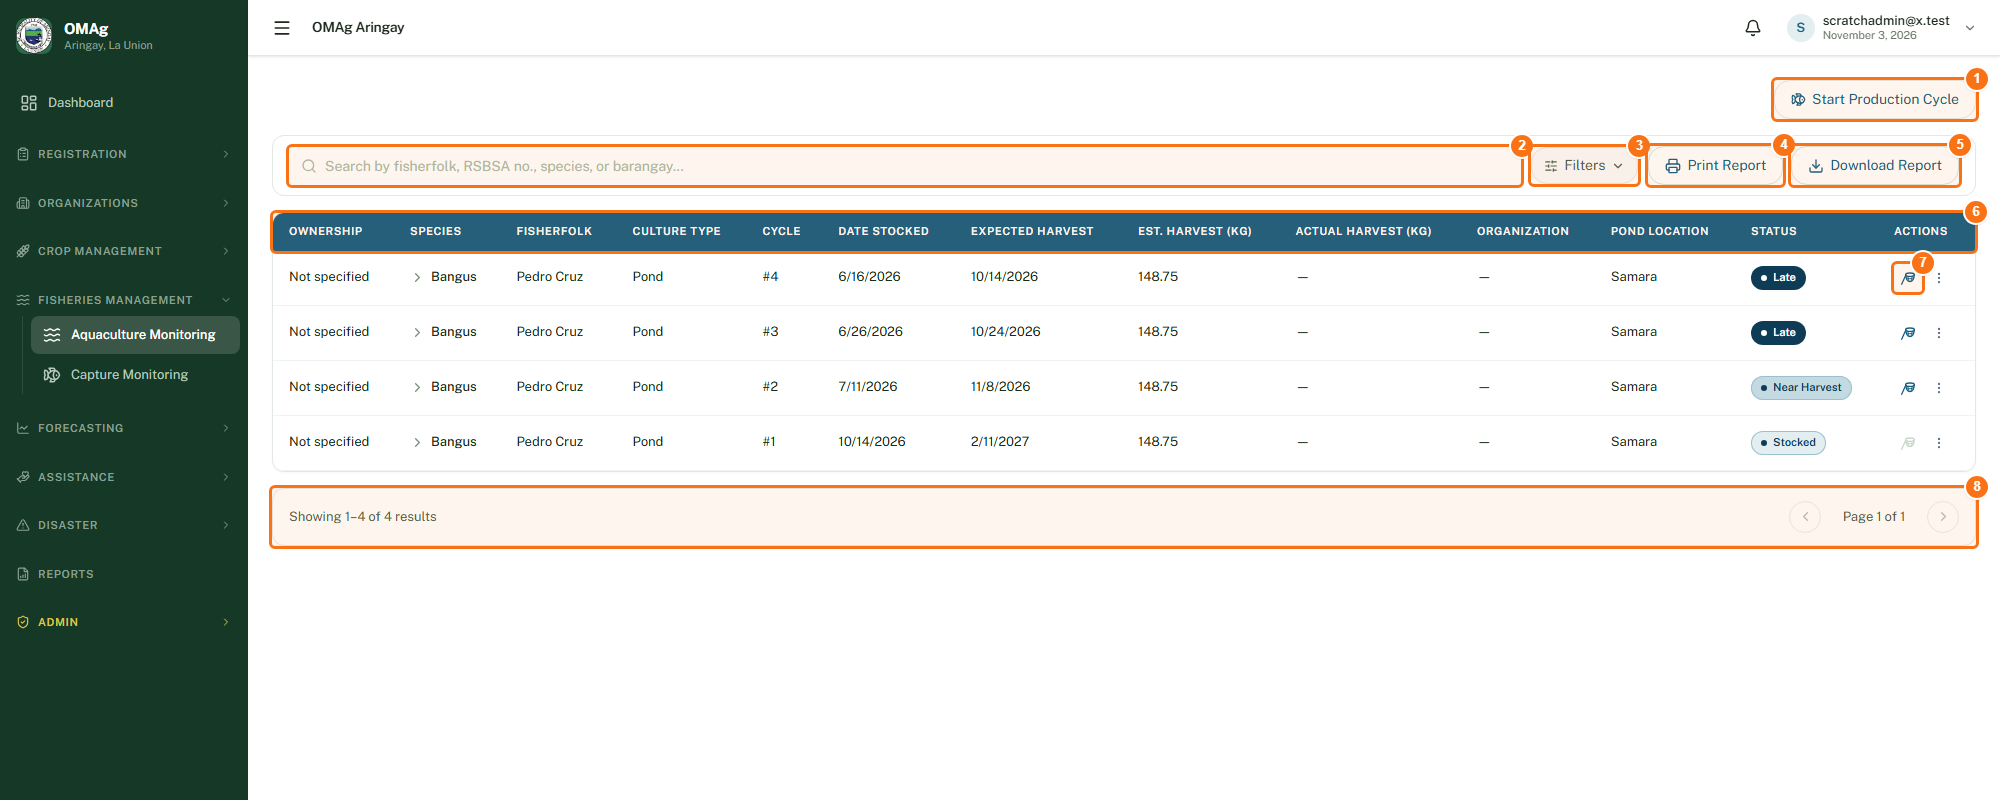
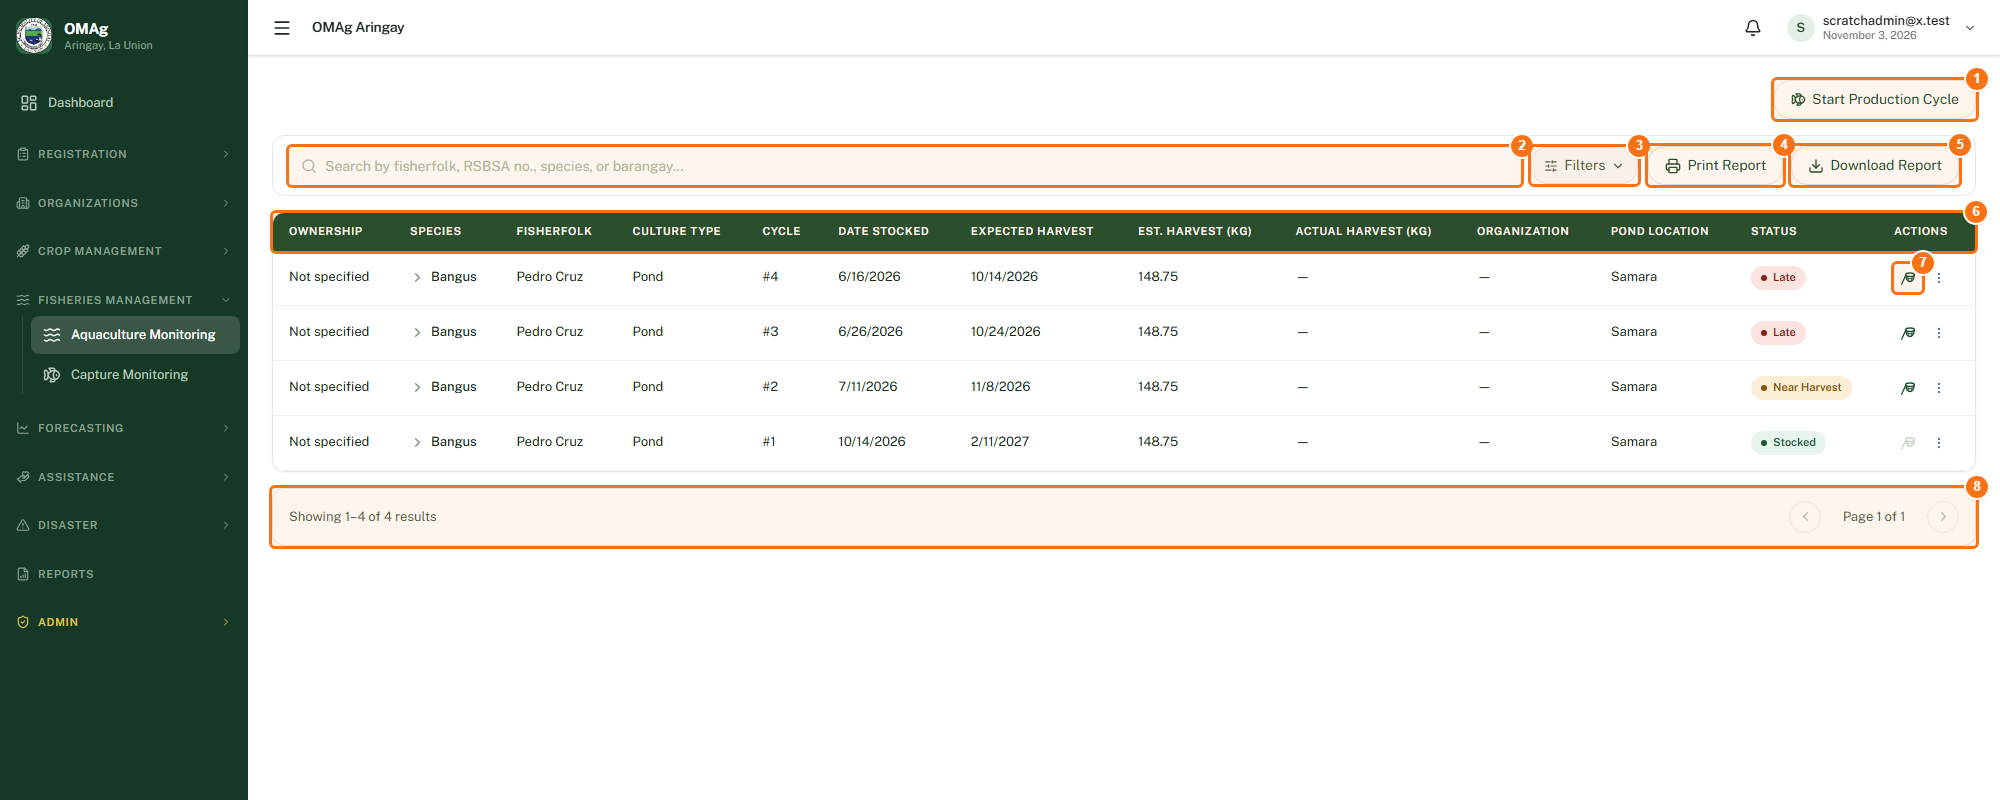
Fisheries Management back in the crop (green) colors for staff; blue stays on fisherfolk accounts
The tide-blue theme of the Fisheries Management pages (PR #152) is removed: admin and Focal Person accounts see the same green as the crop pages, and the status pills use the same colors as crops (green Stocked/Planted, amber Near Harvest, rose Late/Overdue). The fisherfolk and fisherfolk-organization accounts keep their blue account theme (data-account-theme="fisherfolk"), as before.

Removes useFisheriesTheme, the html[data-domain-theme] CSS and the data attributes StatusPill carried for it. The six User Manual pictures taken in blue (aquaculture, its filters and menu, start cycle, cycle details, capture log) are retaken in green.

diff --git a/oma-frontend/src/index.css b/oma-frontend/src/index.css
@@ -379,94 +379,6 @@
   background-color: color-mix(in srgb, var(--color-cz-fish-pale) 70%, transparent);
 }
 
-html[data-domain-theme="fisheries"] {
-  --color-primary:       var(--color-cz-fish-header);
-  --color-primary-hover: var(--color-cz-fish-deeper);
-  --color-primary-deep:  var(--color-cz-fish-deeper);
-  --color-primary-light: var(--color-cz-fish-pale);
-  --color-primary-muted: var(--color-cz-fish-300);
-  --color-accent:        var(--color-cz-fish-header);
-  --color-accent-hover:  var(--color-cz-fish-deeper);
-  --color-accent-light:  var(--color-cz-fish-pale);
-}
-html[data-domain-theme="fisheries"] .accent-\[\#1B4D2E\] { accent-color: var(--color-cz-fish-header); }
-html[data-domain-theme="fisheries"] .accent-\[\#1E4620\] { accent-color: var(--color-cz-fish-header); }
-html[data-domain-theme="fisheries"] .bg-\[\#1B4D2E\] { background-color: var(--color-cz-fish-header); }
-html[data-domain-theme="fisheries"] .bg-\[\#1B4D2E\]\/10 { background-color: color-mix(in oklab, var(--color-cz-fish-header) 10%, transparent); }
-html[data-domain-theme="fisheries"] .bg-\[\#1E4620\] { background-color: var(--color-cz-fish-header); }
-html[data-domain-theme="fisheries"] .hover\:bg-\[\#235E38\]:hover { background-color: var(--color-cz-fish-deeper); }
-html[data-domain-theme="fisheries"] .bg-\[\#4CAF50\] { background-color: var(--color-cz-fish-fill); }
-html[data-domain-theme="fisheries"] .bg-\[\#C8E6D0\] { background-color: var(--color-cz-fish-300); }
-html[data-domain-theme="fisheries"] .bg-\[\#EBF5EE\] { background-color: var(--color-cz-fish-pale); }
-html[data-domain-theme="fisheries"] .hover\:bg-\[\#EBF5EE\]:hover { background-color: var(--color-cz-fish-pale); }
-html[data-domain-theme="fisheries"] .bg-\[\#EBF5EE\]\/20 { background-color: color-mix(in oklab, var(--color-cz-fish-pale) 20%, transparent); }
-html[data-domain-theme="fisheries"] .bg-\[\#EBF5EE\]\/30 { background-color: color-mix(in oklab, var(--color-cz-fish-pale) 30%, transparent); }
-html[data-domain-theme="fisheries"] .hover\:bg-\[\#EBF5EE\]\/30:hover { background-color: color-mix(in oklab, var(--color-cz-fish-pale) 30%, transparent); }
-html[data-domain-theme="fisheries"] .hover\:bg-\[\#EBF5EE\]\/50:hover { background-color: color-mix(in oklab, var(--color-cz-fish-pale) 50%, transparent); }
-html[data-domain-theme="fisheries"] .hover\:bg-\[\#dceadd\]:hover { background-color: color-mix(in srgb, var(--color-cz-fish-300) 40%, var(--color-cz-fish-pale)); }
-html[data-domain-theme="fisheries"] .bg-\[\#e8f5e9\] { background-color: var(--color-cz-fish-pale); }
-html[data-domain-theme="fisheries"] .bg-\[\#f0f7f0\] { background-color: var(--color-cz-fish-pale); }
-html[data-domain-theme="fisheries"] .hover\:bg-\[\#f0f7f0\]:hover { background-color: var(--color-cz-fish-pale); }
-html[data-domain-theme="fisheries"] .border-\[\#1B4D2E\] { border-color: var(--color-cz-fish-header); }
-html[data-domain-theme="fisheries"] .focus-within\:border-\[\#1B4D2E\]:focus-within { border-color: var(--color-cz-fish-header); }
-html[data-domain-theme="fisheries"] .focus\:border-\[\#1B4D2E\]:focus { border-color: var(--color-cz-fish-header); }
-html[data-domain-theme="fisheries"] .hover\:border-\[\#1B4D2E\]:hover { border-color: var(--color-cz-fish-header); }
-html[data-domain-theme="fisheries"] .border-\[\#1B4D2E\]\/30 { border-color: color-mix(in oklab, var(--color-cz-fish-header) 30%, transparent); }
-html[data-domain-theme="fisheries"] .hover\:border-\[\#1B4D2E\]\/60:hover { border-color: color-mix(in oklab, var(--color-cz-fish-header) 60%, transparent); }
-html[data-domain-theme="fisheries"] .border-\[\#1E4620\] { border-color: var(--color-cz-fish-header); }
-html[data-domain-theme="fisheries"] .focus\:border-\[\#1E4620\]:focus { border-color: var(--color-cz-fish-header); }
-html[data-domain-theme="fisheries"] .hover\:border-\[\#1E4620\]:hover { border-color: var(--color-cz-fish-header); }
-html[data-domain-theme="fisheries"] .border-\[\#C8E6D0\] { border-color: var(--color-cz-fish-300); }
-html[data-domain-theme="fisheries"] .border-t-\[\#1B4D2E\] { border-top-color: var(--color-cz-fish-header); }
-html[data-domain-theme="fisheries"] .from-\[\#1B4D2E\] { --tw-gradient-from: var(--color-cz-fish-header); }
-html[data-domain-theme="fisheries"] .focus-visible\:outline-\[\#1E4620\]:focus-visible { outline-color: var(--color-cz-fish-header); }
-html[data-domain-theme="fisheries"] .focus\:ring-\[\#1B4D2E\]:focus { --tw-ring-color: var(--color-cz-fish-header); }
-html[data-domain-theme="fisheries"] .focus\:ring-\[\#1B4D2E\]\/10:focus { --tw-ring-color: color-mix(in oklab, var(--color-cz-fish-header) 10%, transparent); }
-html[data-domain-theme="fisheries"] .focus\:ring-\[\#1B4D2E\]\/20:focus { --tw-ring-color: color-mix(in oklab, var(--color-cz-fish-header) 20%, transparent); }
-html[data-domain-theme="fisheries"] .focus-visible\:ring-\[\#1B4D2E\]\/30:focus-visible { --tw-ring-color: color-mix(in oklab, var(--color-cz-fish-header) 30%, transparent); }
-html[data-domain-theme="fisheries"] .focus\:ring-\[\#1B4D2E\]\/30:focus { --tw-ring-color: color-mix(in oklab, var(--color-cz-fish-header) 30%, transparent); }
-html[data-domain-theme="fisheries"] .\!text-\[\#1B4D2E\] { color: var(--color-cz-fish-header) !important; }
-html[data-domain-theme="fisheries"] .hover\:text-\[\#1B4D2E\]:hover { color: var(--color-cz-fish-header); }
-html[data-domain-theme="fisheries"] .text-\[\#1B4D2E\] { color: var(--color-cz-fish-header); }
-html[data-domain-theme="fisheries"] .text-\[\#1E4620\] { color: var(--color-cz-fish-header); }
-html[data-domain-theme="fisheries"] .text-\[\#235E38\] { color: var(--color-cz-fish-deeper); }
-html[data-domain-theme="fisheries"] .text-\[\#C8E6D0\] { color: var(--color-cz-fish-100); }
-
-html[data-domain-theme="fisheries"] [data-row-clickable]:hover {
-  background-color: color-mix(in srgb, var(--color-cz-fish-pale) 70%, transparent);
-}
-
-/* Fisheries Management pages (Aquaculture and Capture Monitoring): the brand green above becomes tide blue, and every other palette
-   color the pages use (green, amber, red and the like) becomes a shade of the same blue, so the pages keep one color of their own.
-   Set by hooks/useFisheriesTheme.js on <html>. Statuses are told apart by their words and by how dark the blue is. */
-html[data-domain-theme="fisheries"] {
-  --fish-50:  var(--color-cz-fish-pale);
-  --fish-200: color-mix(in oklab, var(--color-cz-fish-pale) 55%, var(--color-cz-fish-300));
-  --fish-300: var(--color-cz-fish-300);
-  --fish-500: var(--color-cz-fish-fill);
-  --fish-600: var(--color-cz-fish-header);
-  --fish-800: var(--color-cz-fish-deeper);
-}
-html[data-domain-theme="fisheries"] { --color-green-50: var(--fish-50); --color-green-100: var(--fish-50); --color-green-200: var(--fish-200); --color-green-300: var(--fish-300); --color-green-400: var(--fish-500); --color-green-500: var(--fish-500); --color-green-600: var(--fish-600); --color-green-700: var(--fish-600); --color-green-800: var(--fish-800); --color-green-900: var(--fish-800); --color-green-950: var(--fish-800); }
-html[data-domain-theme="fisheries"] { --color-emerald-50: var(--fish-50); --color-emerald-100: var(--fish-50); --color-emerald-200: var(--fish-200); --color-emerald-300: var(--fish-300); --color-emerald-400: var(--fish-500); --color-emerald-500: var(--fish-500); --color-emerald-600: var(--fish-600); --color-emerald-700: var(--fish-600); --color-emerald-800: var(--fish-800); --color-emerald-900: var(--fish-800); --color-emerald-950: var(--fish-800); }
-html[data-domain-theme="fisheries"] { --color-lime-50: var(--fish-50); --color-lime-100: var(--fish-50); --color-lime-200: var(--fish-200); --color-lime-300: var(--fish-300); --color-lime-400: var(--fish-500); --color-lime-500: var(--fish-500); --color-lime-600: var(--fish-600); --color-lime-700: var(--fish-600); --color-lime-800: var(--fish-800); --color-lime-900: var(--fish-800); --color-lime-950: var(--fish-800); }
-html[data-domain-theme="fisheries"] { --color-teal-50: var(--fish-50); --color-teal-100: var(--fish-50); --color-teal-200: var(--fish-200); --color-teal-300: var(--fish-300); --color-teal-400: var(--fish-500); --color-teal-500: var(--fish-500); --color-teal-600: var(--fish-600); --color-teal-700: var(--fish-600); --color-teal-800: var(--fish-800); --color-teal-900: var(--fish-800); --color-teal-950: var(--fish-800); }
-html[data-domain-theme="fisheries"] { --color-amber-50: var(--fish-50); --color-amber-100: var(--fish-50); --color-amber-200: var(--fish-200); --color-amber-300: var(--fish-300); --color-amber-400: var(--fish-500); --color-amber-500: var(--fish-500); --color-amber-600: var(--fish-600); --color-amber-700: var(--fish-600); --color-amber-800: var(--fish-800); --color-amber-900: var(--fish-800); --color-amber-950: var(--fish-800); }
-html[data-domain-theme="fisheries"] { --color-yellow-50: var(--fish-50); --color-yellow-100: var(--fish-50); --color-yellow-200: var(--fish-200); --color-yellow-300: var(--fish-300); --color-yellow-400: var(--fish-500); --color-yellow-500: var(--fish-500); --color-yellow-600: var(--fish-600); --color-yellow-700: var(--fish-600); --color-yellow-800: var(--fish-800); --color-yellow-900: var(--fish-800); --color-yellow-950: var(--fish-800); }
-html[data-domain-theme="fisheries"] { --color-orange-50: var(--fish-50); --color-orange-100: var(--fish-50); --color-orange-200: var(--fish-200); --color-orange-300: var(--fish-300); --color-orange-400: var(--fish-500); --color-orange-500: var(--fish-500); --color-orange-600: var(--fish-600); --color-orange-700: var(--fish-600); --color-orange-800: var(--fish-800); --color-orange-900: var(--fish-800); --color-orange-950: var(--fish-800); }
-html[data-domain-theme="fisheries"] { --color-red-50: var(--fish-50); --color-red-100: var(--fish-50); --color-red-200: var(--fish-200); --color-red-300: var(--fish-300); --color-red-400: var(--fish-500); --color-red-500: var(--fish-500); --color-red-600: var(--fish-600); --color-red-700: var(--fish-600); --color-red-800: var(--fish-800); --color-red-900: var(--fish-800); --color-red-950: var(--fish-800); }
-html[data-domain-theme="fisheries"] { --color-rose-50: var(--fish-50); --color-rose-100: var(--fish-50); --color-rose-200: var(--fish-200); --color-rose-300: var(--fish-300); --color-rose-400: var(--fish-500); --color-rose-500: var(--fish-500); --color-rose-600: var(--fish-600); --color-rose-700: var(--fish-600); --color-rose-800: var(--fish-800); --color-rose-900: var(--fish-800); --color-rose-950: var(--fish-800); }
-html[data-domain-theme="fisheries"] { --color-pink-50: var(--fish-50); --color-pink-100: var(--fish-50); --color-pink-200: var(--fish-200); --color-pink-300: var(--fish-300); --color-pink-400: var(--fish-500); --color-pink-500: var(--fish-500); --color-pink-600: var(--fish-600); --color-pink-700: var(--fish-600); --color-pink-800: var(--fish-800); --color-pink-900: var(--fish-800); --color-pink-950: var(--fish-800); }
-html[data-domain-theme="fisheries"] { --color-purple-50: var(--fish-50); --color-purple-100: var(--fish-50); --color-purple-200: var(--fish-200); --color-purple-300: var(--fish-300); --color-purple-400: var(--fish-500); --color-purple-500: var(--fish-500); --color-purple-600: var(--fish-600); --color-purple-700: var(--fish-600); --color-purple-800: var(--fish-800); --color-purple-900: var(--fish-800); --color-purple-950: var(--fish-800); }
-html[data-domain-theme="fisheries"] { --color-violet-50: var(--fish-50); --color-violet-100: var(--fish-50); --color-violet-200: var(--fish-200); --color-violet-300: var(--fish-300); --color-violet-400: var(--fish-500); --color-violet-500: var(--fish-500); --color-violet-600: var(--fish-600); --color-violet-700: var(--fish-600); --color-violet-800: var(--fish-800); --color-violet-900: var(--fish-800); --color-violet-950: var(--fish-800); }
-html[data-domain-theme="fisheries"] { --color-indigo-50: var(--fish-50); --color-indigo-100: var(--fish-50); --color-indigo-200: var(--fish-200); --color-indigo-300: var(--fish-300); --color-indigo-400: var(--fish-500); --color-indigo-500: var(--fish-500); --color-indigo-600: var(--fish-600); --color-indigo-700: var(--fish-600); --color-indigo-800: var(--fish-800); --color-indigo-900: var(--fish-800); --color-indigo-950: var(--fish-800); }
-html[data-domain-theme="fisheries"] [data-status-pill] { background-color: var(--fish-50) !important; color: var(--fish-800) !important; box-shadow: inset 0 0 0 1px var(--fish-300); }
-html[data-domain-theme="fisheries"] [data-status-pill][data-tone="amber"] { background-color: var(--fish-200) !important; }
-html[data-domain-theme="fisheries"] [data-status-pill][data-tone="teal"] { background-color: var(--fish-600) !important; color: #fff !important; box-shadow: none; }
-html[data-domain-theme="fisheries"] [data-status-pill][data-tone="rose"] { background-color: var(--fish-800) !important; color: #fff !important; box-shadow: none; }
-html[data-domain-theme="fisheries"] [data-status-pill][data-tone="slate"] { background-color: var(--color-milk) !important; color: var(--fish-800) !important; box-shadow: inset 0 0 0 1px var(--fish-300); }
-html[data-domain-theme="fisheries"] [data-status-pill] > span:first-child { background-color: currentColor !important; }
-
 * {
   box-sizing: border-box;
 }

diff --git a/oma-frontend/src/pages/Monitoring/FisheriesMonitoringPage.jsx b/oma-frontend/src/pages/Monitoring/FisheriesMonitoringPage.jsx
@@ -20,7 +20,6 @@ import ModalShell from '../../components/UI/ModalShell.jsx'
 import { useAuth } from '../../context/AuthContext.jsx'
 import { useToast } from '../../context/ToastContext.jsx'
 import FisheriesRecordsPage from '../FisheriesRecords/FisheriesRecordsPage.jsx'
-import useFisheriesTheme from '../../hooks/useFisheriesTheme.js'
 import FisheriesHistoryModal from './FisheriesHistoryModal.jsx'
 import LogCatchModal from './LogCatchModal.jsx'
 
@@ -315,7 +314,6 @@ function EditCatchModal({ record, onClose, onSaved }) {
 // a fisherfolk account only ever has Aquaculture.
 // Disaster management lives in its own module (Admin > Disaster > Fisheries Disaster), not here.
 export default function FisheriesMonitoringPage() {
-  useFisheriesTheme()
   const { isFisherfolk } = useAuth()
   const [searchParams] = useSearchParams()
   const rawTab = searchParams.get('tab') || 'stocking'

diff --git a/oma-frontend/src/components/UI/StatusPill.jsx b/oma-frontend/src/components/UI/StatusPill.jsx
@@ -37,13 +37,9 @@ const STATUS_DEFAULT = TONE.slate
 
 function StatusPill({ tone = 'slate', status, children }) {
   const colors = status !== undefined ? (STATUS_MAP[status] || STATUS_DEFAULT) : (TONE[tone] || TONE.slate)
-  // The tone's name (green, amber, rose, teal, slate), for a theme that recolors the pills (index.css [data-domain-theme]).
-  const toneName = Object.keys(TONE).find((k) => TONE[k] === colors && !['blue', 'navy', 'marigold'].includes(k)) || 'slate'
 
   return (
     <span
-      data-status-pill=""
-      data-tone={toneName}
       className="inline-flex items-center gap-[6px] px-[10px] py-[4px] rounded-full text-[11px] font-semibold"
       style={{ backgroundColor: colors.bg, color: colors.text }}
     >
